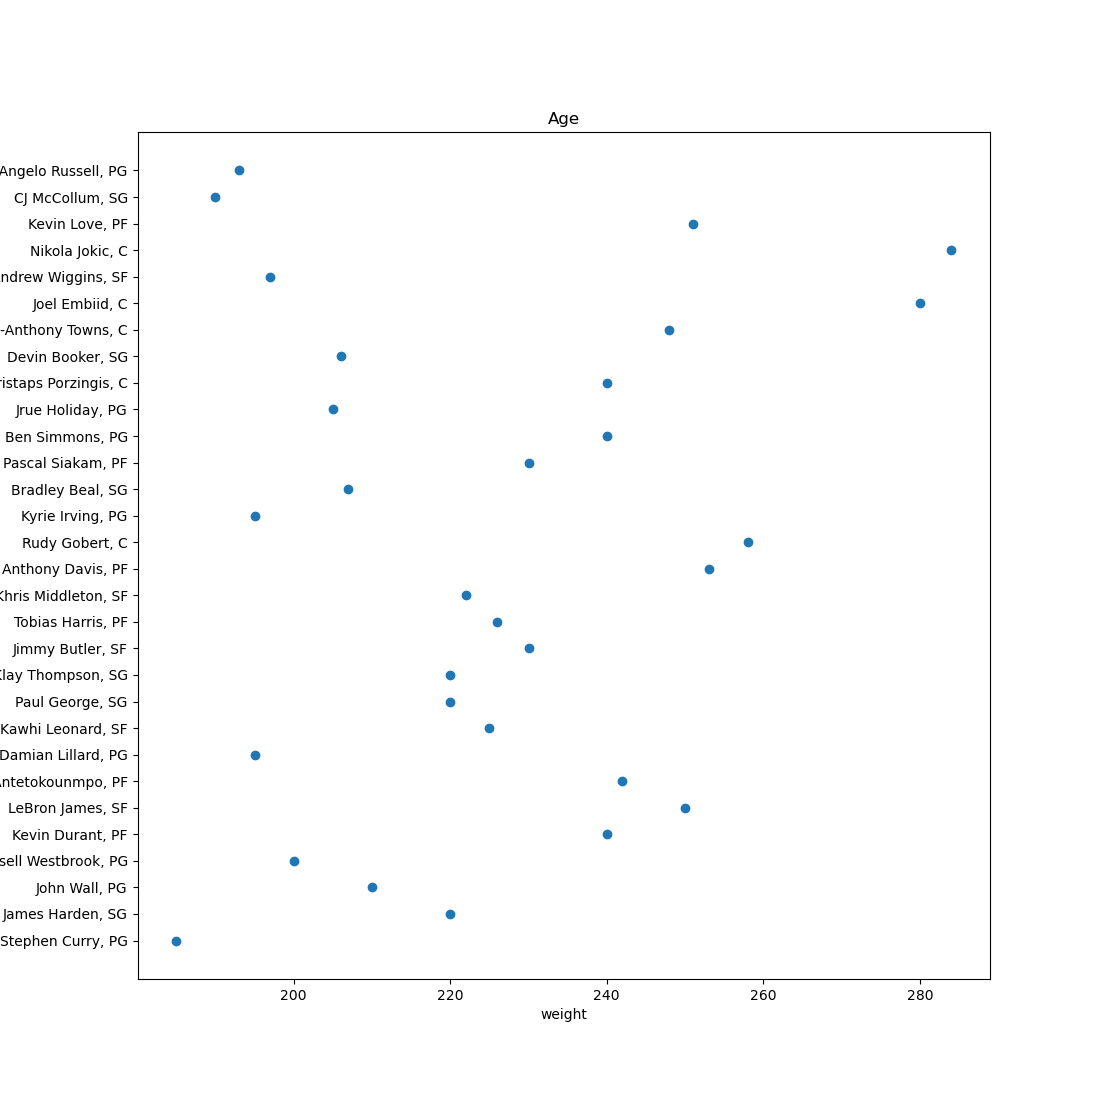
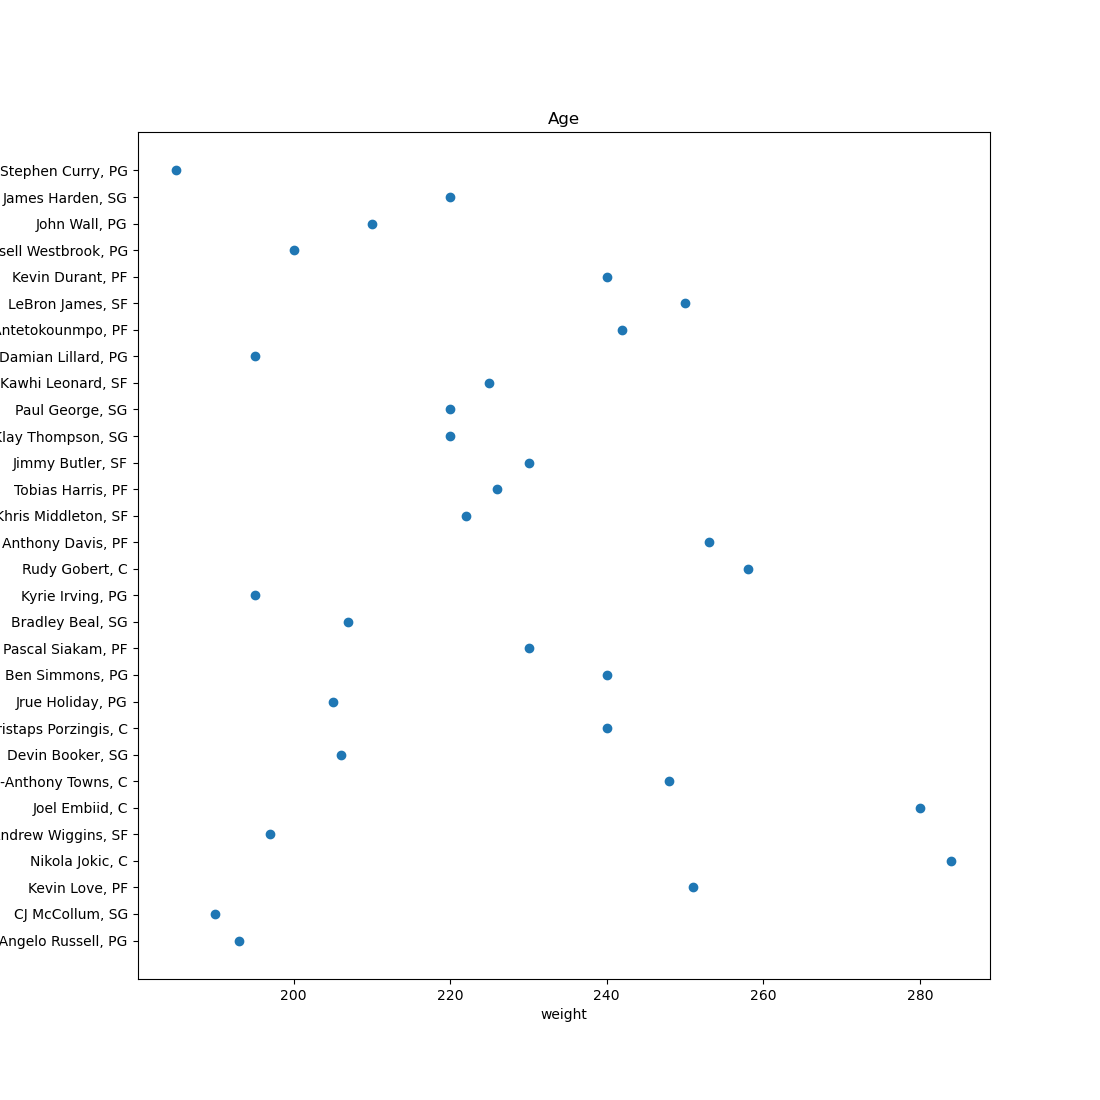
change graph type and codes

Changed region(s): [[0.0, 0.1545, 0.1236, 0.8655], [0.4018, 0.3709, 0.4327, 0.4018]]

diff --git a/code/salary_graph.py b/code/salary_graph.py
@@ -10,7 +10,7 @@ df = pd.read_csv(IN_PATH)
 fig = plt.figure(figsize = (110,11))
 plt.barh(df['name'], df['salary'], color = 'maroon')
 plt.scatter(df['age'], df['name'])
-plt.title('salary')
+plt.title('Salary Graph')
 plt.xlabel('salary')
 plt.ylabel('name') 
 plt.savefig(os.path.join(OUT_PATH))

diff --git a/code/assist_graph.py b/code/assist_graph.py
@@ -10,7 +10,7 @@ df = pd.read_csv(IN_PATH)
 fig = plt.figure(figsize = (11,11))
 ax = fig.add_subplot(1, 1, 1)
 plt.scatter(df['assist'], df['name'])
-plt.title('Age')
+plt.title('Assist Graph')
 plt.xlabel('assist')
 plt.ylabel('name') 
 plt.savefig(os.path.join(OUT_PATH))

diff --git a/code/weight_graph.py b/code/weight_graph.py
@@ -10,7 +10,7 @@ df = pd.read_csv(IN_PATH)
 fig = plt.figure(figsize = (11,11))
 ax = fig.add_subplot(1, 1, 1)
 plt.scatter(df['weight'], df['name'])
-plt.title('Age')
+plt.title('Weight Graph')
 plt.xlabel('weight')
 plt.ylabel('name') 
 plt.savefig(os.path.join(OUT_PATH))

diff --git a/code/pts_graph.py b/code/pts_graph.py
@@ -10,7 +10,7 @@ df = pd.read_csv(IN_PATH)
 fig = plt.figure(figsize = (11,11))
 ax = fig.add_subplot(1, 1, 1)
 plt.scatter(df['pts'], df['name'])
-plt.title('Age')
+plt.title('Pts Graph')
 plt.xlabel('pts')
 plt.ylabel('name') 
 plt.savefig(os.path.join(OUT_PATH))
